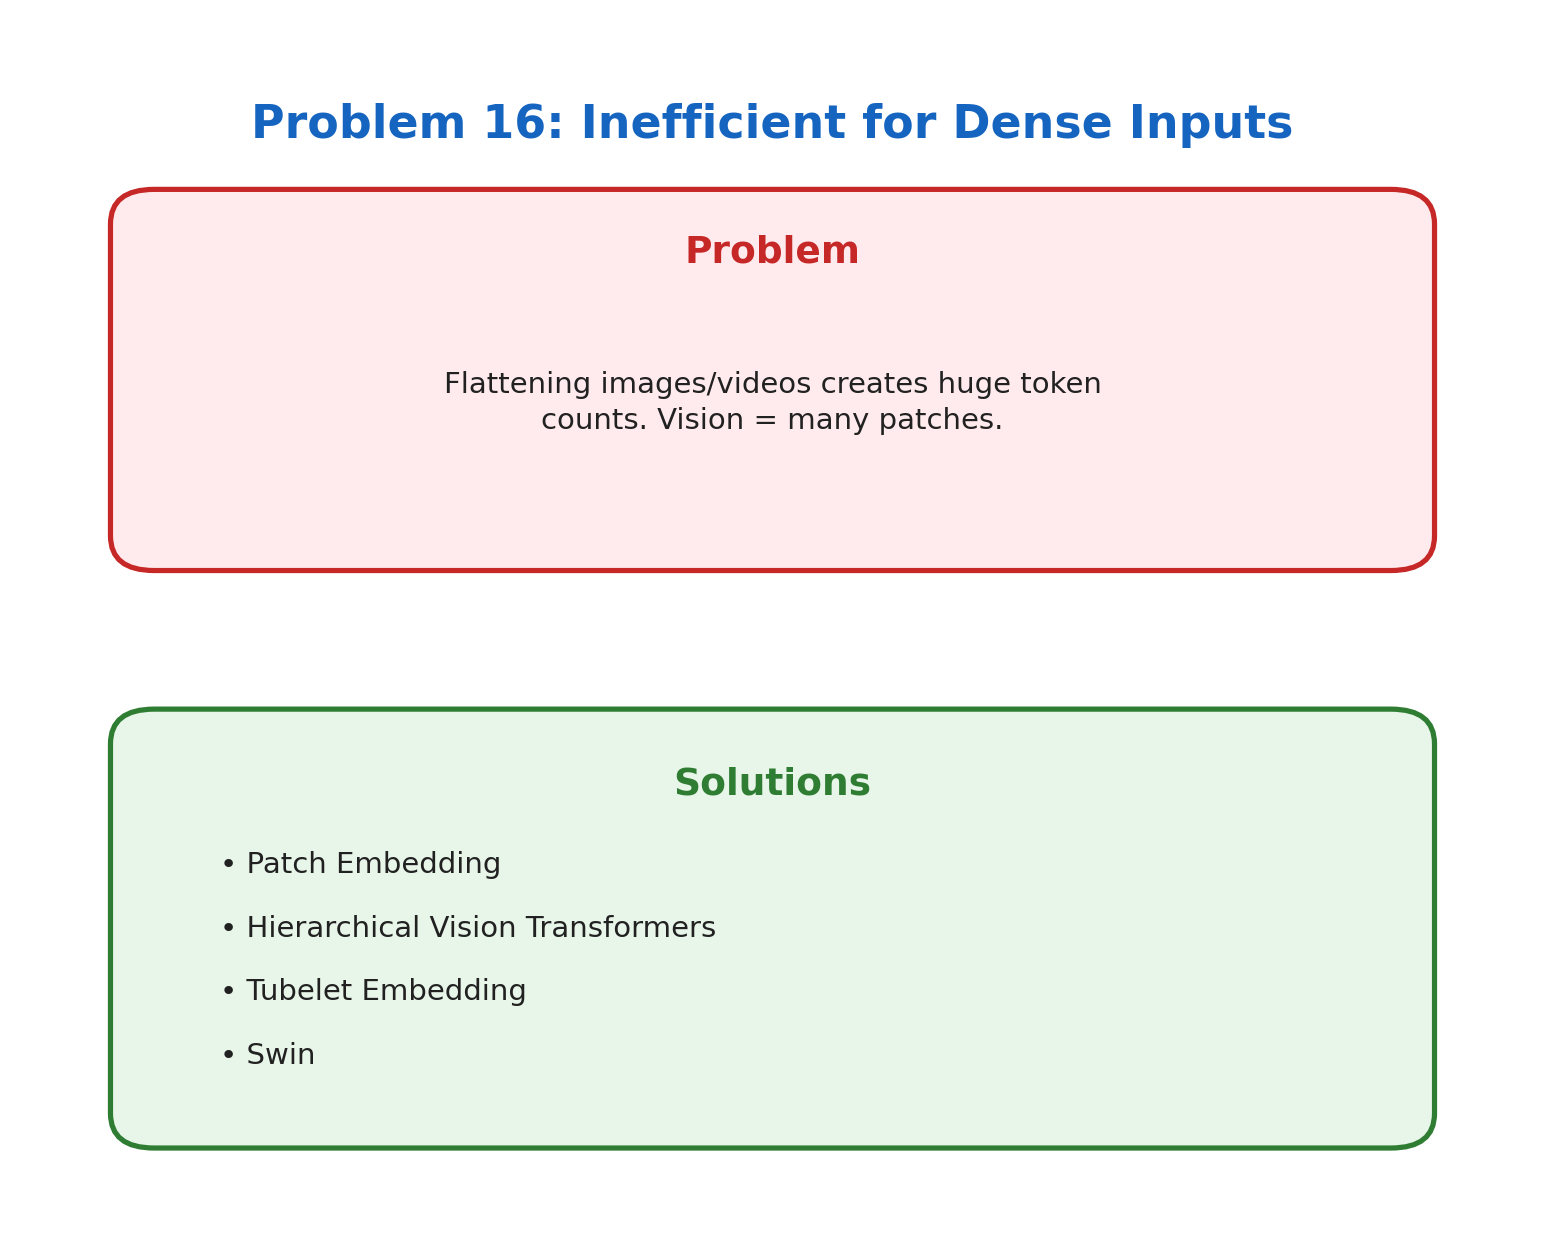
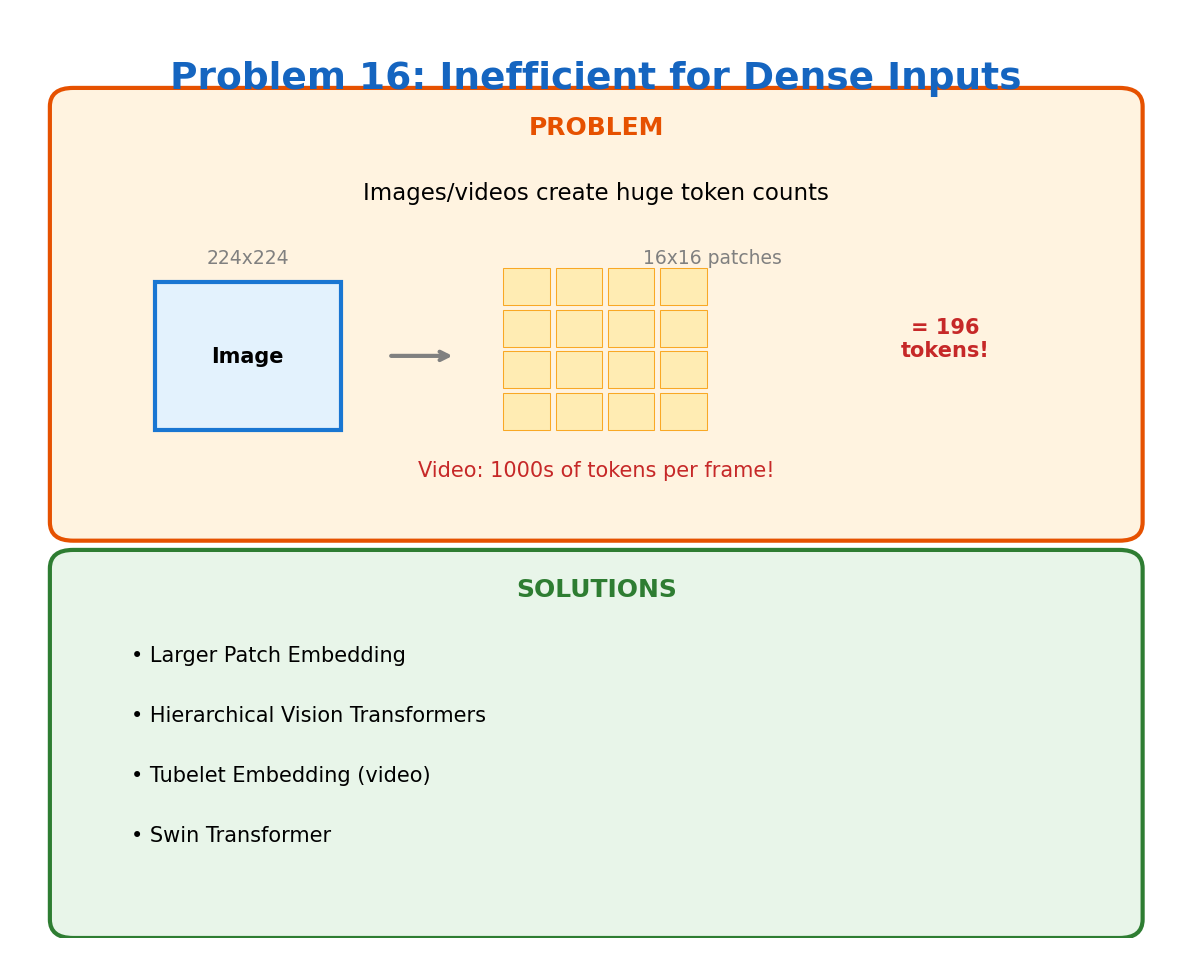
Update Problem 16: Dense Inputs - human-readable README

diff --git a/16_dense_inputs/README.md b/16_dense_inputs/README.md
@@ -1,23 +1,68 @@
 # Problem 16: Inefficient for Dense Inputs
 
-## Problem
+[← Back to Main](../README.md) | [← Previous](../15_interpretability/README.md) | [Next →](../17_hardware_inefficiency/README.md)
 
-Flattening images/videos creates huge token counts. Vision = many patches.
+---
 
-When applying Transformers to images or videos, the input must be flattened into sequences. A 224×224 image with 16×16 patches creates 196 tokens; videos create orders of magnitude more.
+![Problem 16](./problem.png)
 
-## Solutions
+## What's the Problem?
 
-| Solution | Description |
-|----------|-------------|
-| **Patch Embedding** | Embed image patches as tokens with optimal patch sizes |
-| **Hierarchical Vision Transformers** | Multi-scale processing with progressive downsampling |
-| **Tubelet Embedding** | Embed 3D video cubes for efficient video processing |
-| **Swin** | Shifted window attention for efficient hierarchical processing |
+Text is sparse — a few hundred tokens for a paragraph. Images are dense — a 224×224 image has 50,176 pixels.
 
-## References
+To use a transformer on an image, you have to flatten it into a sequence. ViT uses 16×16 patches, giving you 196 tokens for a 224×224 image. Higher resolution? More tokens. Video? Way more tokens.
 
-- [ViT](https://arxiv.org/abs/2010.11929) - An Image is Worth 16x16 Words
-- [Swin Transformer](https://arxiv.org/abs/2103.14030) - Hierarchical Vision Transformer
-- [Video Swin](https://arxiv.org/abs/2106.13230) - Video Swin Transformer
+| Input | Resolution | Tokens (16×16 patches) |
+|-------|------------|------------------------|
+| Image | 224×224 | 196 |
+| Image | 512×512 | 1024 |
+| Image | 1024×1024 | 4096 |
+| Video (1 sec) | 224×224 @ 30fps | 5880 |
 
+Remember O(N²) attention? Now you see the problem.
+
+## Why Can't We Use Smaller Patches?
+
+Smaller patches = more detail = better performance. But also = more tokens = quadratic blowup.
+
+32×32 patches on a 224×224 image: 49 tokens. Great for compute, but you lose fine details.
+
+8×8 patches: 784 tokens. Better quality, but 16x more attention compute than 32×32.
+
+## How Do We Fix It?
+
+| Approach | What It Does |
+|----------|--------------|
+| **Larger Patches** | Trade detail for efficiency |
+| **Hierarchical ViT** | Start with small patches, merge them as you go deeper |
+| **Swin Transformer** | Local attention within windows, shift windows between layers |
+| **Tubelet Embedding** | For video — embed 3D chunks (space + time) |
+| **Token Pruning** | Drop less important patches mid-network |
+
+## Swin: The Winning Design
+
+Swin Transformer computes attention only within local windows (e.g., 7×7 patches). Then it shifts the windows to allow cross-window communication.
+
+Benefits:
+- Linear complexity with image size (not quadratic)
+- Maintains ability to capture global context
+- Hierarchical features like CNNs
+
+This is why Swin became the go-to for vision tasks.
+
+## Video is Harder
+
+Video = images × time. Even with tricks, processing a 10-second video at 30fps is:
+- 300 frames × 196 patches = 58,800 tokens
+
+Solutions involve heavy temporal downsampling, 3D patch embeddings, or processing frames independently.
+
+## Learn More
+
+- [ViT](https://arxiv.org/abs/2010.11929) — The original vision transformer
+- [Swin](https://arxiv.org/abs/2103.14030) — Hierarchical vision transformer
+- [Video Swin](https://arxiv.org/abs/2106.13230) — Extension to video
+
+---
+
+[← Back to Main](../README.md) | [← Previous](../15_interpretability/README.md) | [Next →](../17_hardware_inefficiency/README.md)
